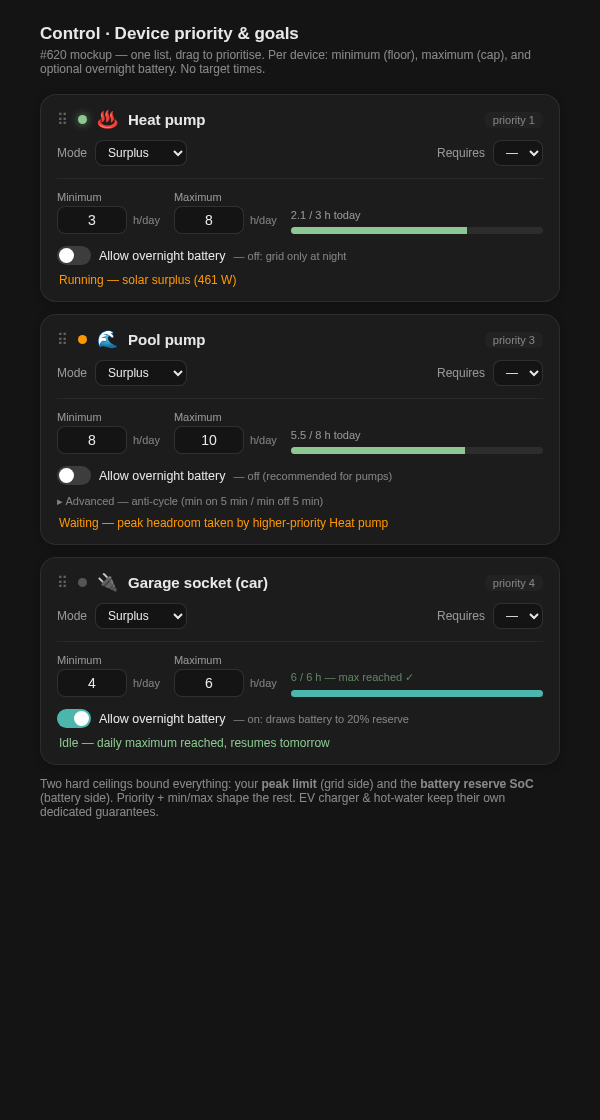
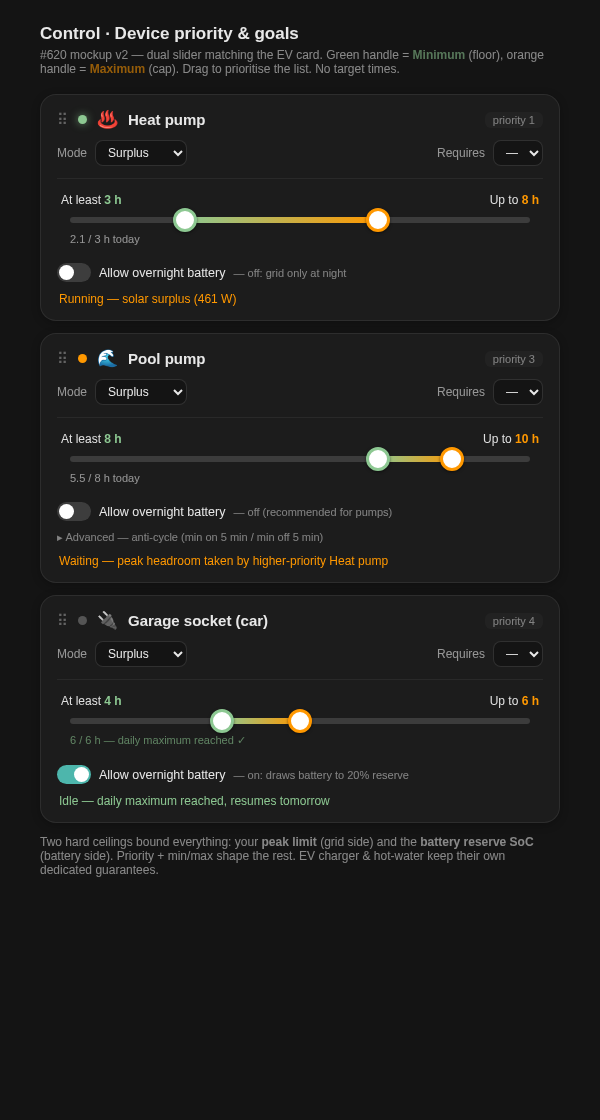
spec(#620): mockup v2 — EV-style dual-handle range slider for min/max (matches charge-target slider)

diff --git a/docs/superpowers/specs/2026-07-20-620-device-goal-model-design.md b/docs/superpowers/specs/2026-07-20-620-device-goal-model-design.md
@@ -62,7 +62,7 @@ Reason surface (like the EV strategy sensor): each device publishes *why* it is 
 
 The device target panel mirrors the load-priority card's existing look, NOT the full EV card (a switch does not need 5 modes / dual-amp / taper):
 
-- **Min / Max** as a compact dual field (hours), with today's progress bar (`X.X / Y h`).
+- **Min / Max** as an **EV-style dual-handle range slider** (green *at least* handle + orange *up to* handle, green→orange gradient fill — identical to the charger's Charge-target slider), with today's progress line (`X.X / Y h`).
 - **Allow overnight battery** toggle with a one-line hint.
 - Anti-cycle min-on/off under an "advanced" disclosure (sane defaults; most users never touch).
 - The device's priority is its drag position in the one list (unchanged).
